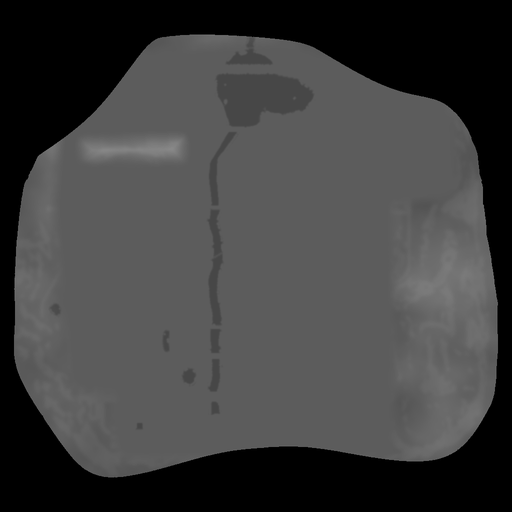
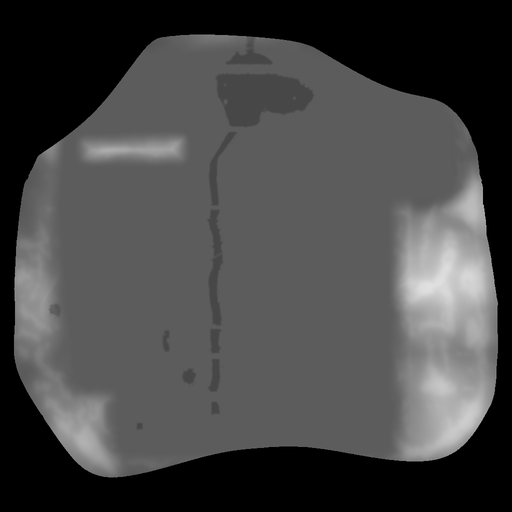
Live Map 3D: raise the outer hills; reshape the water tower
The hills beyond the city zone now rise properly: eastern highlands up
to ~44 units above the plateau, north-west mesa 30 with steep sides,
west and south ridges 20-22, plus extra relief wherever the map shows
rock bands. City core stays level. Water tower is a thick tapered
column under a broad rounded tank, as in the close-up shot.

Claude-Session: https://claude.ai/code/session_01C1aya8uT8Zw6d2kYm4aDAx

diff --git a/preview/live-map-3d.html b/preview/live-map-3d.html
@@ -1349,14 +1349,13 @@ onTerrain.push(() => { for (const [s, r, x, y] of stops) { const h = heightAt(x,
 [[1332, 275], [1348, 640], [1352, 1452], [880, 1452], [300, 1452]].forEach(p => addStop(p, 0xF0F2F5));
 [[188, 792], [660, 988], [1240, 1330], [1350, 1330]].forEach(p => addStop(p, 0xB8D94A));
 
-// ── water tower (south-west park) ──
+// ── water tower (south-west park): one thick tapered column under a broad rounded tank ──
 const wt = new THREE.Group();
-const wtMat = new THREE.MeshStandardMaterial({ color: 0xF2F3F5, roughness: 0.5 });
-const wtTank = new THREE.Mesh(new THREE.SphereGeometry(6.5, 20, 14), wtMat); wtTank.position.y = 22; wtTank.castShadow = true;
-const wtStem = new THREE.Mesh(new THREE.CylinderGeometry(1.4, 1.6, 17, 10), wtMat); wtStem.position.y = 8.5; wtStem.castShadow = true;
-wt.add(wtTank, wtStem);
-for (let i = 0; i < 4; i++) { const leg = new THREE.Mesh(new THREE.CylinderGeometry(0.35, 0.35, 19, 6), wtMat);
-  const a = i * Math.PI / 2 + Math.PI / 4; leg.position.set(Math.cos(a) * 4.2, 9.5, Math.sin(a) * 4.2); leg.rotation.z = Math.cos(a) * 0.16; leg.rotation.x = -Math.sin(a) * 0.16; wt.add(leg); }
+const wtMat = new THREE.MeshStandardMaterial({ color: 0xF2F3F5, roughness: 0.45 });
+const wtTank = new THREE.Mesh(new THREE.SphereGeometry(7.5, 24, 16), wtMat); wtTank.scale.set(1, 0.82, 1); wtTank.position.y = 27; wtTank.castShadow = true;
+const wtCol = new THREE.Mesh(new THREE.CylinderGeometry(2.4, 3.2, 23, 14), wtMat); wtCol.position.y = 11.5; wtCol.castShadow = true;
+const wtCap = new THREE.Mesh(new THREE.CylinderGeometry(1.2, 1.6, 1.2, 10), wtMat); wtCap.position.y = 33.4;
+wt.add(wtTank, wtCol, wtCap);
 wt.position.set(380, 0, 1100); scene.add(wt); onTerrain.push(() => { wt.position.y = heightAt(380, 1100) - 0.3; });
 
 // ── vehicles ──

diff --git a/preview/live-map-3d.src.js b/preview/live-map-3d.src.js
@@ -204,14 +204,13 @@ onTerrain.push(() => { for (const [s, r, x, y] of stops) { const h = heightAt(x,
 [[1332, 275], [1348, 640], [1352, 1452], [880, 1452], [300, 1452]].forEach(p => addStop(p, 0xF0F2F5));
 [[188, 792], [660, 988], [1240, 1330], [1350, 1330]].forEach(p => addStop(p, 0xB8D94A));
 
-// ── water tower (south-west park) ──
+// ── water tower (south-west park): one thick tapered column under a broad rounded tank ──
 const wt = new THREE.Group();
-const wtMat = new THREE.MeshStandardMaterial({ color: 0xF2F3F5, roughness: 0.5 });
-const wtTank = new THREE.Mesh(new THREE.SphereGeometry(6.5, 20, 14), wtMat); wtTank.position.y = 22; wtTank.castShadow = true;
-const wtStem = new THREE.Mesh(new THREE.CylinderGeometry(1.4, 1.6, 17, 10), wtMat); wtStem.position.y = 8.5; wtStem.castShadow = true;
-wt.add(wtTank, wtStem);
-for (let i = 0; i < 4; i++) { const leg = new THREE.Mesh(new THREE.CylinderGeometry(0.35, 0.35, 19, 6), wtMat);
-  const a = i * Math.PI / 2 + Math.PI / 4; leg.position.set(Math.cos(a) * 4.2, 9.5, Math.sin(a) * 4.2); leg.rotation.z = Math.cos(a) * 0.16; leg.rotation.x = -Math.sin(a) * 0.16; wt.add(leg); }
+const wtMat = new THREE.MeshStandardMaterial({ color: 0xF2F3F5, roughness: 0.45 });
+const wtTank = new THREE.Mesh(new THREE.SphereGeometry(7.5, 24, 16), wtMat); wtTank.scale.set(1, 0.82, 1); wtTank.position.y = 27; wtTank.castShadow = true;
+const wtCol = new THREE.Mesh(new THREE.CylinderGeometry(2.4, 3.2, 23, 14), wtMat); wtCol.position.y = 11.5; wtCol.castShadow = true;
+const wtCap = new THREE.Mesh(new THREE.CylinderGeometry(1.2, 1.6, 1.2, 10), wtMat); wtCap.position.y = 33.4;
+wt.add(wtTank, wtCol, wtCap);
 wt.position.set(380, 0, 1100); scene.add(wt); onTerrain.push(() => { wt.position.y = heightAt(380, 1100) - 0.3; });
 
 // ── vehicles ──

diff --git a/preview/build-heightmap.py b/preview/build-heightmap.py
@@ -23,20 +23,21 @@ water=ndi.binary_closing(water,iterations=2)
 # levels (world units): sea 0 → one plateau for city, suburbs and hills; river and lake carved below it
 PLATEAU, RIVER_DROP = 40.0, 9.0
 d=ndi.distance_transform_edt(~keep)
-ramp=np.clip(d/60,0,1); ramp=ramp*ramp*(3-2*ramp)
+ramp=np.clip(d/50,0,1); ramp=ramp*ramp*(3-2*ramp)
 h=np.full((N,N),PLATEAU)
-# gentle rolling ground away from the city; the north-west ridge is a flat-topped mesa
-hills=[((250,300),120,18),((70,600),90,6),((880,560),130,10),((900,820),110,8),((520,940),120,5),((980,420),80,6),((450,80),90,5)]
+# outer hills: real rises beyond the city zone, shaped by the rock bands (east highlands highest, north-west mesa, west and south ridges)
+hills=[((250,300),150,30),((70,600),100,22),((880,560),160,44),((900,820),140,38),((520,940),150,22),((980,420),100,32),((450,80),110,12),((150,880),110,20)]
 yy,xx=np.mgrid[0:N,0:N]; H=np.zeros((N,N))
 for (cx,cy),rad,hh in hills[1:]: H=np.maximum(H,hh*np.exp(-((xx-cx)**2+(yy-cy)**2)/(2*(rad*0.55)**2)))
-mesa=np.clip(1-(np.sqrt(((xx-250)/150.0)**2+((yy-290)/70.0)**2)-0.8)/0.35,0,1); mesa=mesa*mesa*(3-2*mesa)   # flat top, steep sides
-H=np.maximum(H,22*mesa)
-h+=H*ramp
+mesa=np.clip(1-(np.sqrt(((xx-250)/160.0)**2+((yy-290)/75.0)**2)-0.8)/0.35,0,1); mesa=mesa*mesa*(3-2*mesa)   # flat top, steep sides
+H=np.maximum(H,30*mesa)
+cd=ndi.gaussian_filter(cliff.astype(float),12); cd=cd/max(cd.max(),1e-6)                                    # rock density → extra relief
+h+=(H+16*cd)*ramp
 rng=np.random.default_rng(4)
 noise=ndi.gaussian_filter(rng.standard_normal((N,N)),22); noise=noise/np.abs(noise).max()
 fine=ndi.gaussian_filter(rng.standard_normal((N,N)),7); fine=fine/np.abs(fine).max()
 roll=np.clip(d/25,0,1)                                              # rolling ground everywhere except the city core
-h+=6*noise*roll+1.5*fine*roll
+h+=7*noise*roll+2*fine*roll
 h+=3.5*ndi.gaussian_filter(cliff.astype(float),3)*roll             # rock belts sit a little proud of the grass
 rim=np.exp(-((np.sqrt((xx-250)**2+(yy-400)**2)-150)**2)/(2*28**2)); h+=4*rim*roll   # low rim around the west suburb
 # river / lake channels: drop with soft banks
